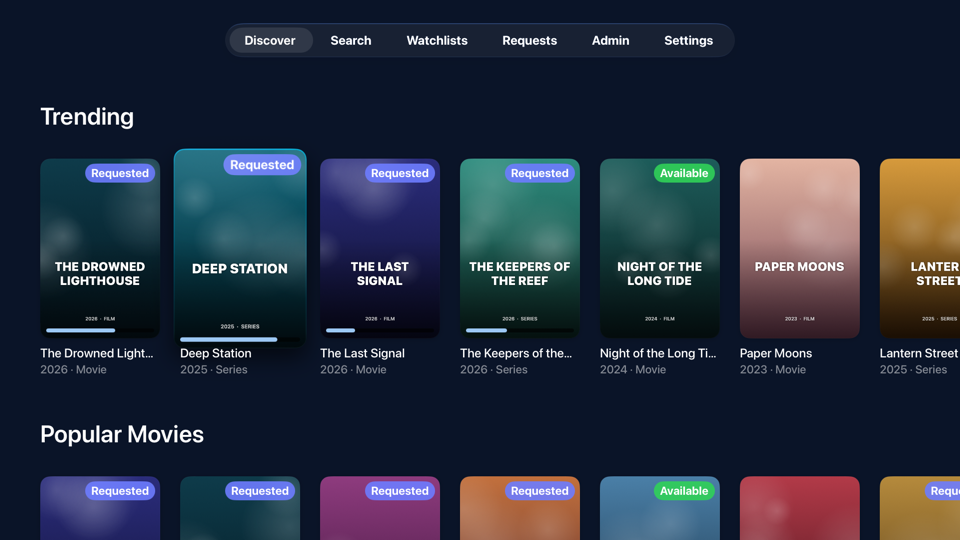
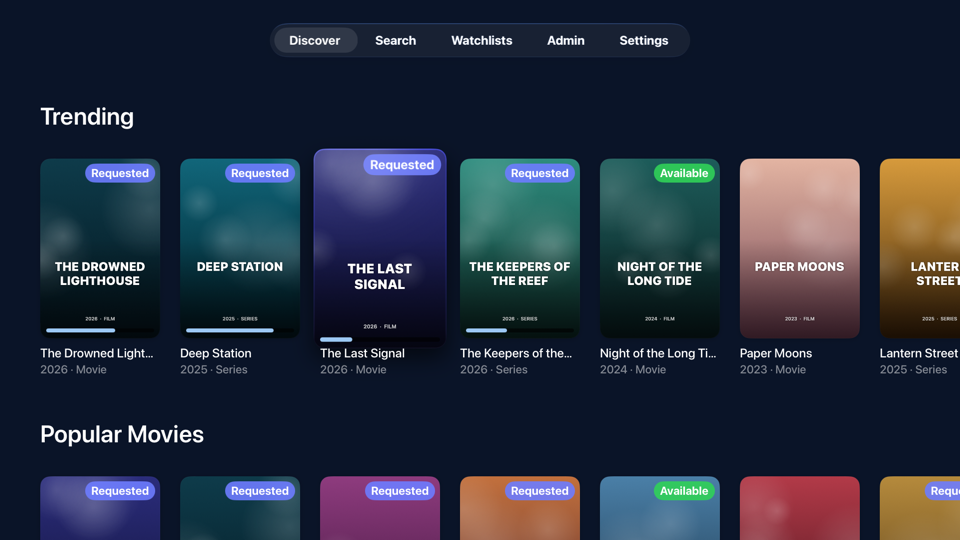
Version 1.2: refreshed screenshots, README and ideas
- Retake the screenshots that showed the removed Requests tab, and the download banner
- README: five tabs, tabs that reset, watchlist season picker, updated ideas for next steps
- Bump the version to 1.2 (build 3)

Changed region(s): [[0.1562, 0.2667, 0.4688, 0.5333], [0.2188, 0.0296, 0.75, 0.1185], [0.1875, 0.563, 0.4688, 0.6519]]

diff --git a/README.md b/README.md
@@ -119,10 +119,12 @@ Top Shelf is on by default. To change it, open **Settings** and select **Top She
 - **Eight themes** to choose from in Settings → Look and Feel → Appearance: Sludge, Bile, Gloam (the default), Despair, Rage, Abyss, Smoke and Mist. Abyss is true black (#000000) so OLED pixels stay off behind the UI, and Mist is a light off-white theme.
 - **About page**, opened from the logo at the bottom of Settings, with the version, a link to the GitHub project and credits for Trakt, TMDB, TheTVDB and Plex.
 - **Discover**: Trending, Popular Movies, Upcoming Movies, Popular Series, Upcoming Series. Rows page in more titles as you scroll.
-- **Search** across movies and series with the tvOS search keyboard.
+- **Search** across movies and series with the tvOS search keyboard. Results show availability badges and download progress like Discover.
 - **Detail pages** with backdrop, overview, runtime/seasons, genres, rating and live availability.
 - **Requests**: request a movie, or pick specific seasons of a series. Seasons already available or requested are locked.
-- **Watchlists**: import your Trakt, Letterboxd, TMDB and TheTVDB watchlists, see which titles are already on your server, and request the rest one at a time or all at once.
+- **Watchlists**: import your Trakt, Letterboxd, TMDB and TheTVDB watchlists, see which titles are already on your server, and request the rest. Pick which titles, and which seasons of each series, to send.
+- **Tabs that reset**: Discover, Search, Watchlists, Admin and Settings each return to their top level when you leave them and come back, and Search clears its box.
+- **Five tabs**: Discover, Search, Watchlists, Settings and, for admins, Admin. Everyone else sees a title's request status on its detail page and as badges on posters.
 - Session survives relaunches (cookie and sign-in credentials in the Keychain); if the Seerr session expires, the app silently signs in again.
 
 ## Requirements
@@ -252,15 +254,17 @@ Done:
 - [x] Request-option overrides (server, quality profile, root folder) for users with *Advanced Requests*
 - [x] Cast & crew and "Similar"/"Recommended" rows on detail pages
 - [x] Top Shelf extension showing trending titles, with an on/off switch in Settings
-- [x] Watchlists from Trakt, Letterboxd, TMDB and TheTVDB
-- [x] Choose which titles and which seasons of a series to request from a watchlist
-- [x] A banner when a download finishes, on any screen (tvOS can't show banners while the app is closed)
+- [x] Watchlists from Trakt, Letterboxd, TMDB and TheTVDB, with a picker for titles and seasons
 - [x] qBittorrent, Deluge and Transmission: progress without Sonarr or Radarr, and pause, resume and cancel for downloads
+- [x] A banner when a download finishes, on any screen (tvOS can't show banners while the app is closed)
 - [x] Themes, including a light one
+- [x] Tabs that return to their top level when you leave them
 
 Still to do:
 
 - Support usenet clients (SABnzbd, NZBGet) for progress and the download controls
+- A request list for non-admin users, now that the Requests tab is gone (for example on the Settings or Discover screens)
+- Show a banner for downloads that finished while the app was closed, when it's next opened
 - An optional API key sign-in for qBittorrent 5.2 and newer, next to the username and password
 - Browse Discover by genre, studio or network, and filter or sort search results
 - Trust a self-signed HTTPS certificate for Seerr and the download services, after the user approves it
